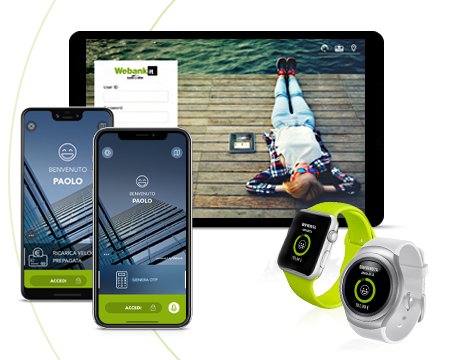
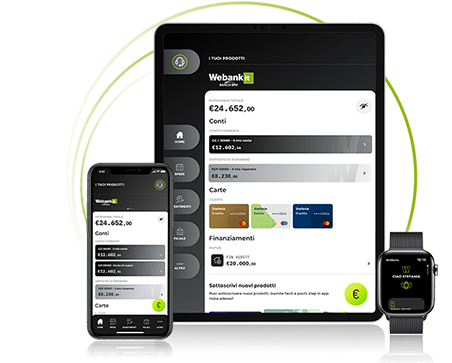
RIlascio nuova app su RU dedicata (138174)

diff --git a/docs_webank/lndpage/zerocosti.html b/docs_webank/lndpage/zerocosti.html
@@ -3694,6 +3694,7 @@ strong.t2
 									<li><strong>usarla</strong> senza alcuna commissione per i <strong>pedaggi autostradali</strong> con la funzione FastPay</li>
 									<li><strong>versare contanti e assegni</strong> nelle aree Self Service</li>
 									<li><strong>pagare le utenze, ricaricare il cellulare e le prepagate</strong> agli sportelli automatici Banco BPM</li>
+									<li>usare l'app <strong>BANCOMAT Pay</strong> per <strong>pagare, inviare e ricevere denaro</strong> direttamente dal tuo <strong>smartphone</strong></li>
 
 								</ul>
 
@@ -3774,10 +3775,11 @@ strong.t2
 								</div>
 
 								<div class="col-lg-12 col-md-12 ">
-									<strong class="t2">ACCESSO VELOCE, BASTI TU!</strong><br />
+									<strong class="t2">ACCESSO FACILE E VELOCE</strong><br />
 									<p class="b4txt" style="text-align: justify;">
 										<!-- Funzioni veloci con un tap!<br /> -->
-										Grazie al riconoscimento biometrico tramite <b>FaceID</b>, <b>TouchID</b> o <b>TouchSensor</b>, con un gesto, e nella massima sicurezza, entri nel tuo conto ed effettui operazioni.
+										Grazie al <strong>riconoscimento</strong> della tua <strong>impronta digitale</strong> o del tuo <strong>viso</strong> accedi all'App Webank con elevati standard di sicurezza.
+										Puoi anche usarla come <strong>token app</strong> gratuito per entrare e autorizzare tutte le operazioni.
 
 									</p>
 								</div>
@@ -3788,23 +3790,21 @@ strong.t2
 								</div>
 
 								<div class="col-lg-12 col-md-12 ">
-									<strong class="t2">FUNZIONI ONE TAP</strong><br />
+									<strong class="t2">PULSANTE DISPOSITIVO</strong><br />
 									<p class="b4txt" style="text-align: justify;">
-										<b>Un solo codice e un solo gesto</b> per ricaricare la carta prepagata, il cellulare, l'abbonamento ATM e condividere le coordinate. Inoltre <b>controlli il saldo con uno shake</b> del telefono!
-
+										Ti basta un solo gesto per accedere rapidamente a tutte le operazioni dalle diverse sezioni dell'app. Inoltre puoi <strong>visualizzare il saldo</strong> del tuo conto <strong>con uno shake</strong> dello smartphone e impostare le <strong>funzioni veloci</strong> su misura per te.
 									</p>
 								</div>
 							</div>
 							<div class="col-md-3 col-sm-3 col-xs-12">
 								<div class="col-lg-12 col-md-12 " style="text-align:center">
-									<img src="/img/ico_qrcode_280519.png" class="img100"  style="max-width:82px;" />
+									<img src="/img/ico_gestione_250820.png" class="img100"  style="max-width:82px;" />
 								</div>
 
 								<div class="col-lg-12 col-md-12 ">
-									<strong class="t2">BOLLETTINO QR CODE</strong><br />
+									<strong class="t2">GESTIONE COMPLETA E INTUITIVA</strong><br />
 									<p class="b4txt" style="text-align: justify;">
-										Devi pagare un <b>bollettino postale</b>? Per evitare le code in posta ti basta aprire l'app e <b>inquadrare il codice</b>!
-
+										Gestisci il tuo conto e tutte le tue le carte, fai bonifici e pagamenti di ogni tipo, anche inquadrando il <strong>QR Code</strong>. Inoltre puoi impostare gli <strong>alert</strong> per restare sempre aggiornato sui movimenti del tuo conto e deposito titoli.
 									</p>
 								</div>
 							</div>
@@ -3814,9 +3814,11 @@ strong.t2
 								</div>
 
 								<div class="col-lg-12 col-md-12">
-									<strong class="t2">INVESTIMENTI</strong><br />
+									<strong class="t2">RISPARMI E INVESTIMENTI
+									</strong><br />
 									<p class="b4txt" style="text-align: justify;">
-										Con le funzioni "Ricerca" e "Confronta" consulti le schede e sottoscrivi Fondi e SICAV in pochi tap e con il "Simulatore PAC" puoi simulare l'evoluzione nel corso del tempo di un Piano di Accumulo
+										Gestisci i tuoi risparmi, inserisci ordini di borsa, sottoscrivi Fondi e SICAV in modo veloce e intuitivo. Puoi anche creare un <strong>portafoglio simulato</strong> per imparare a monitorare in sicurezza i tuoi investimenti. 
+
 									</p>
 								</div>
 							</div>
@@ -4017,7 +4019,8 @@ strong.t2
 									</div>
 
 								</div>
-								<p>Lunedi - Venerdi: 8.30 - 21.00; Sabato 9:00 - 17:00</p>
+								<!--corretto formato data-->
+								<p>Lunedi - Venerdi: 8:30 - 21:00; Sabato 9:00 - 17:00</p>
 							</div>
 						</div>
 					</div>

diff --git a/docs_wbresp/wbresp/css/le-nostre-app.css b/docs_wbresp/wbresp/css/le-nostre-app.css
@@ -15,7 +15,7 @@ mobile-trading.html -> Le nostre app - mobile trading
 
 /* Nuova mini hero 22/01/2018 */
 .mobile-banking .main_hero.app {background: #1d300c url("/wbresp/img/app/mini_hero_app.jpg") no-repeat left 0;padding:30px;background-size:cover;}
-.mobile-banking .main_hero.app h2 {color:#d3ff40;text-shadow: 0 2px 1px rgba(0,0,0,0.9);margin:30px 0 20px;max-width:40%;}
+.mobile-banking .main_hero.app h2 {color:#d3ff40;text-shadow: 0 2px 1px rgba(0,0,0,0.9);margin:15px 0 20px;max-width:40%;}
 .mobile-banking .main_hero.app ul {list-style-type:none;margin:0;padding:0;width:auto;max-width:60%}
 .mobile-banking .main_hero.app ul li {list-style-type: none;color: #fff; width:100%;text-transform: none;background: transparent url(/wbresp/img/carousel/flag.png) no-repeat 0 3px;margin: 0 none;font-size: 18px;text-indent: 0;padding: 0 0 10px 31px;}
 .mobile-banking .main_hero.app ul li:before {content:"";}
@@ -38,6 +38,7 @@ mobile-trading.html -> Le nostre app - mobile trading
 .mobile-banking.container03 .feat {min-height:140px; margin-bottom: 10px;}
 .mobile-banking.container03 .feat p {padding: 0 0 0 110px; font-size: 14px; color: #999;}
 .mobile-banking.container03 .feat p b {font-size: 16px; color: #666; font-family:"ralewaysemibold",arial,sans-serif; font-weight:normal;}
+.mobile-banking.container03 .feat p b.bold-light {color: #999;}
 .mobile-banking.container03 .feat1 {background: transparent url("/wbresp/img/app/feat1.png") no-repeat 0 0;}
 .mobile-banking.container03 .feat2 {background: transparent url("/wbresp/img/app/feat2.png") no-repeat 0 0;}
 .mobile-banking.container03 .feat3 {background: transparent url("/wbresp/img/app/feat3.png") no-repeat 0 0;}

diff --git a/docs_wbresp/wbresp/html/wdg_ban_comandi_vocali.html b/docs_wbresp/wbresp/html/wdg_ban_comandi_vocali.html
@@ -1,6 +1,6 @@
 <!-- BANNER PROMO -->
 <style>
-.widgetComandi {margin: 0px auto 20px; max-width:260px!important;height:471px;width:100%;background: transparent url("/wbresp/img/wdg_ban_comandi_vocali.jpg") top center no-repeat;text-align:center;box-sizing: border-box;
+.widgetComandi {margin: 0px auto 20px; max-width:260px!important;height:471px;width:100%;background: transparent url("/wbresp/img/wdg_ban_comandi_vocali.jpg?a=1") top center no-repeat;text-align:center;box-sizing: border-box;
   -moz-box-sizing: border-box;
   -webkit-box-sizing: border-box;text-align:center;position:relative;}
   .widgetComandi .widgetBox {position:absolute; height:170px;width:100%;bottom:0;padding:0 15px;}
@@ -15,7 +15,7 @@
 	<div class="widgetBox">
 		<span class="titoletto">Comandi vocali</span>
 		<p>Con App Webank<br>basta chiedere!</p>
-	    <a href="javascript:;" onclick="location.href='/webankpub/wbresp/t1/mobile_banking.do#OOOs5'" class="btn-grlit btn-grlit-arrow" title="Guarda il video">Guarda il video</a>
+	    <a href="javascript:;" onclick="location.href='/webankpub/wbresp/t1/mobile_banking.do#OOOs5'" class="btn-grlit btn-grlit-arrow" title="Scopri di piu'">Scopri di pi&ugrave;</a>
 	</div>
 </div>
 <!-- FINE BANNER PROMO -->

diff --git a/docs_wbresp/wbresp/css/prodotti.css b/docs_wbresp/wbresp/css/prodotti.css
@@ -292,7 +292,7 @@ assicurazioni.html -> Prodotti - assicurazioni
 
 .investimenti .main_hero.new {position:relative;padding:50px;text-shadow: 1px 2px 1px rgba(0,0,0,1);background: #1d300c url("/wbresp/img/investimenti/minihero_investimenti_new.jpg") no-repeat right 0; background-size: cover; overflow:hidden; clear:both; float:none}
 .investimenti .main_hero.new h2 {margin:0; padding:0; max-width:400px;color:#d3ff40;}
-.investimenti .main_hero.new h3, .mobile-banking .main_hero.app h3 {color:#fff;font-size:20px; max-width:350px;margin-bottom:20px;}
+.investimenti .main_hero.new h3, .mobile-banking .main_hero.app h3 {color:#fff;font-size:20px; max-width:230px;margin-bottom:20px;}
 .investimenti .main_hero.new h3 span.big {clear:both;display:block;width:100%;font-size:80px;color:#d3ff40;font-weight:bold;margin-top:-10px;margin-bottom:10px;}
 .investimenti .main_hero.new .btn-green {position:absolute;text-shadow:none; bottom:30px; left:0;}
 .investimenti .main_hero.new p {font-size:16px; max-width:500px; color:#fff;}

diff --git a/docs_wbresp/wbresp/css/base.css b/docs_wbresp/wbresp/css/base.css
@@ -1524,16 +1524,20 @@ img.fullwidth {
 }
 
 #nav-apple-link,
-#nav-google-link
+#nav-google-link,
+#nav-appgallery-link
 {
     position: absolute;
     left: 260px;
-    top: -10px;
+    top: -55px;
     width: 180px
+}
+#nav-apple-link {
+    top: -14px
 }
 
 #nav-google-link {
-    top: 30px
+    top: 29px
 }
 
 
@@ -1691,6 +1695,11 @@ img.fullwidth {
     position: relative;
     z-index: 5;
     width: 100%;
+}
+
+.dropdown-large-view .bottomLink {
+    position:absolute;
+    bottom:25px;
 }
 
 .dropdown-large-view .dright img {
@@ -2482,13 +2491,18 @@ img.fullwidth {
     .dropdown .dropdown-toggle {
         padding-bottom: 31px !important
     }
+    #nav-appgallery-link {
+        left: 170px;
+        top: -81px;
+    }
+
     #nav-apple-link {
         left: 170px;
         top: -40px;
     }
     #nav-google-link {
         left: 170px;
-        top: 1px;
+        top: 2px;
     }
     .pnmnv,
     .anmnv {

diff --git a/docs_wbresp/wbresp/js/home.js b/docs_wbresp/wbresp/js/home.js
@@ -5,7 +5,7 @@ loadHomeVisual = function(){
 	var homeCarWrap = $("#homeCarousel").empty();
 	var homeCar = $("<div>").addClass("carousel slide").attr({"id":"myCarousel","data-ride":"carousel"});
 	// URL della promo
-	var urlCarousel = "/wbresp/html/home_carousel_20181125.html";
+	var urlCarousel = "/wbresp/html/home_carousel_202009.html";
 
 	// Carica l'html
 	$.ajax({

diff --git a/docs_wbresp/wbresp/css/contenuti.css b/docs_wbresp/wbresp/css/contenuti.css
@@ -6,7 +6,7 @@
 @import 'sicurezza.css';
 @import 'chi-siamo.css';
 @import 'le-nostre-app.css?a=3';
-@import 'prodotti.css?a=33';
+@import 'prodotti.css?a=4';
 @import 'contatti.css';
 @import 'eventi-e-corsi.css';
 @import 'trading.css?a=3';
